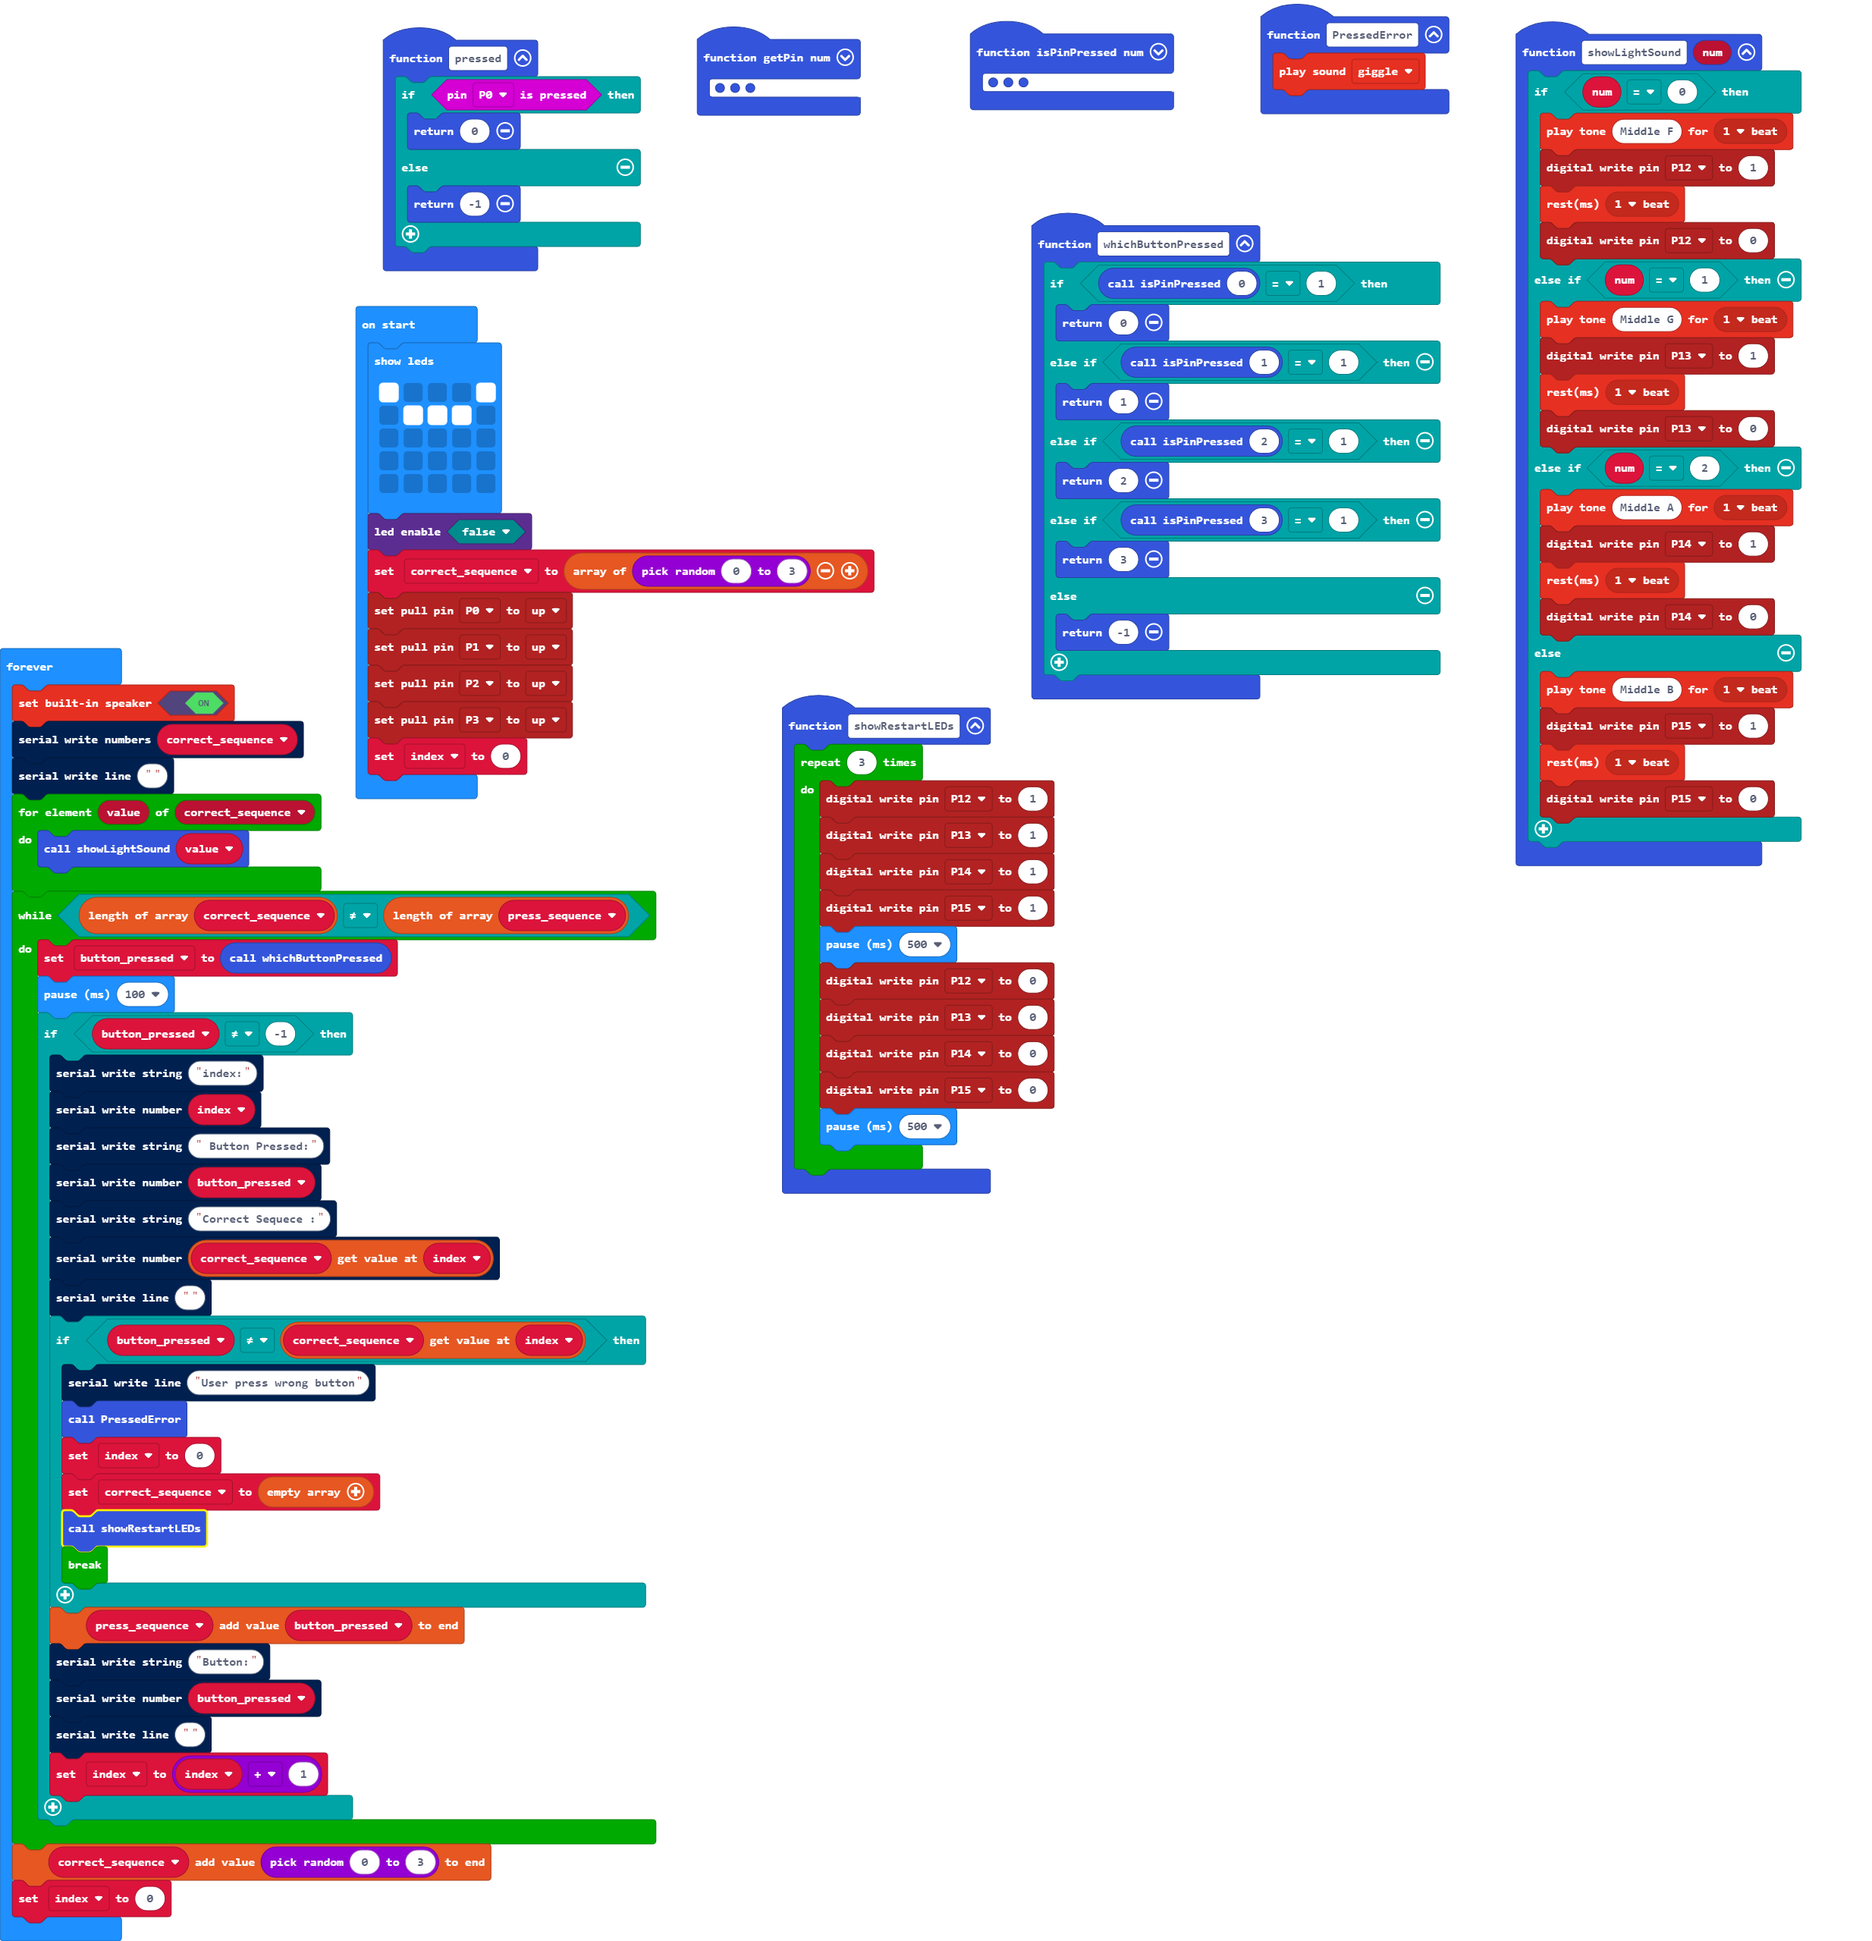
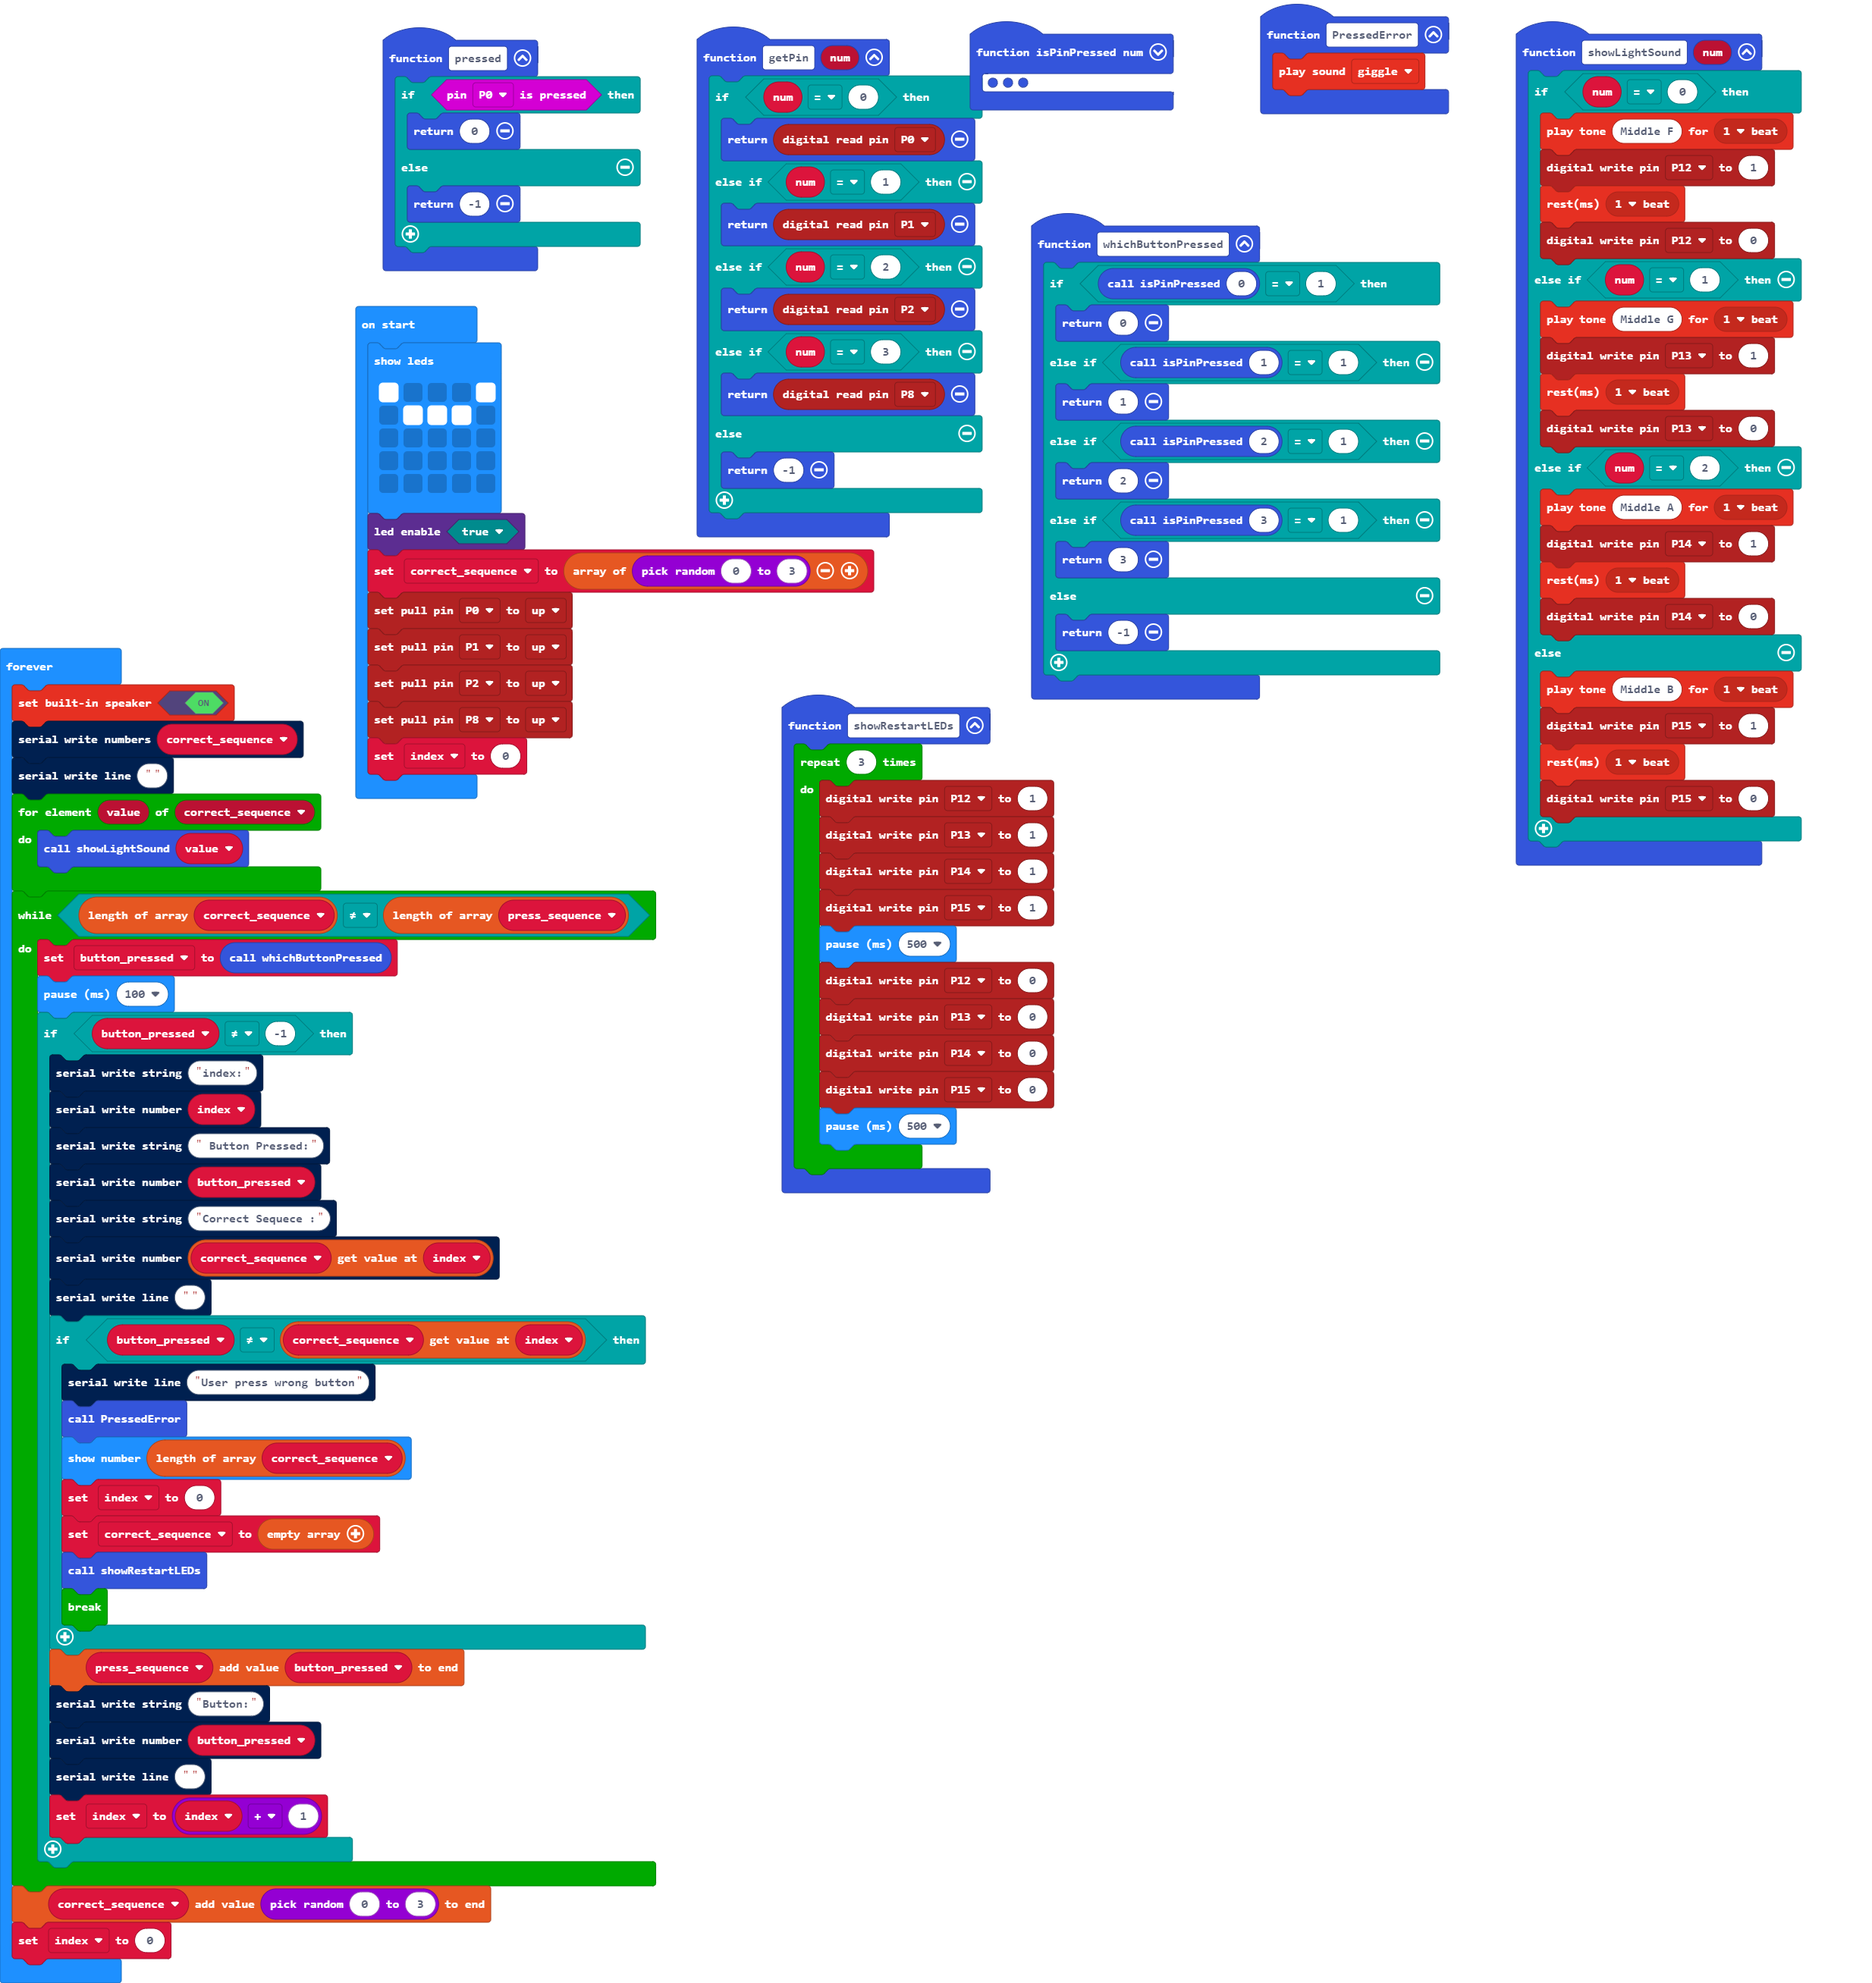
Change one of the buttons to pin 8 because we want to use the LED to show the score.

diff --git a/main.ts b/main.ts
@@ -47,7 +47,7 @@ function getPin (num: number) {
     } else if (num == 2) {
         return pins.digitalReadPin(DigitalPin.P2)
     } else if (num == 3) {
-        return pins.digitalReadPin(DigitalPin.P3)
+        return pins.digitalReadPin(DigitalPin.P8)
     } else {
         return -1
     }
@@ -91,12 +91,12 @@ basic.showLeds(`
     . . . . .
     . . . . .
     `)
-led.enable(false)
+led.enable(true)
 let correct_sequence = [randint(0, 3)]
 pins.setPull(DigitalPin.P0, PinPullMode.PullUp)
 pins.setPull(DigitalPin.P1, PinPullMode.PullUp)
 pins.setPull(DigitalPin.P2, PinPullMode.PullUp)
-pins.setPull(DigitalPin.P3, PinPullMode.PullUp)
+pins.setPull(DigitalPin.P8, PinPullMode.PullUp)
 let index = 0
 basic.forever(function () {
     let press_sequence: number[] = []
@@ -120,6 +120,7 @@ basic.forever(function () {
             if (button_pressed != correct_sequence[index]) {
                 serial.writeLine("User press wrong button")
                 PressedError()
+                basic.showNumber(correct_sequence.length)
                 index = 0
                 correct_sequence = []
                 showRestartLEDs()
